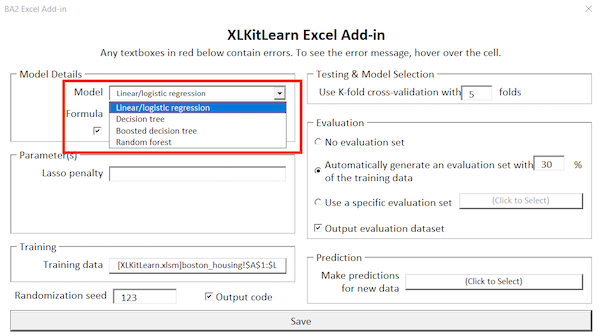
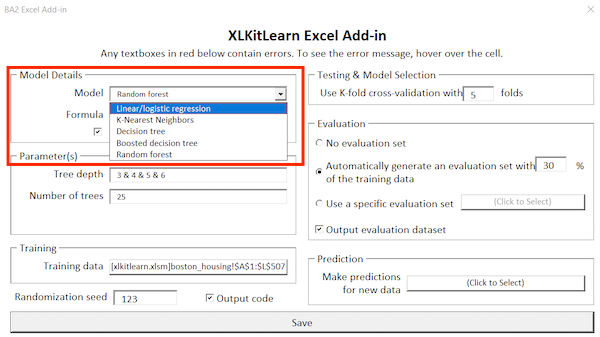
Add and update screenshots, addresses remaining DG notes

diff --git a/docs/predictive_analytics.md b/docs/predictive_analytics.md
@@ -105,7 +105,7 @@ Note that XLKitLearn's formulas leverage the [Patsy](https://patsy.readthedocs.i
 
 ## Specifying a Predictive Model
 
-The final component of any predictive analytic workflow is the model that will be trained and used to make predictions. The model can be selected in the <a id="model-dropdown" class="hover-link" href="javascript:;" title="">model dropdown</a>. DREW update this to include knn in the dropdown 
+The final component of any predictive analytic workflow is the model that will be trained and used to make predictions. The model can be selected in the <a id="model-dropdown" class="hover-link" href="javascript:;" title="">model dropdown</a>.
 
 Some predictive models require parameters to be specified. In those cases, the parameters can be specified in the <a id="parameters" class="hover-link" href="javascript:;" title="">parameter section</a>, which will update to list the parameters required for the specific model selected. In addition, any parameters that are required (and cannot be left blank) will be highlighted in red.
 
@@ -179,7 +179,7 @@ Note that if multiple parameters are tuned (eg: tree depths of 1 and 2 _and_ lea
 
 ## Training and Evaluation Sets
 
-XLKitLearn is able to work with separate training and evaluation datasets. Evaluation datasets can be specified in the 'Evaluation' section of the addin (DREW hover image please!) in a number of ways:
+XLKitLearn is able to work with separate training and evaluation datasets. Evaluation datasets can be specified in the <a id="evaluation-section" class="hover-link" href="javascript:;" title="">"Evaluation" section</a> of the addin in a number of ways:
 
 1. **No evaluation set**: the entire training set will be used to train the model, and no evaluation set will be used.
 2. **Automatically generate an evaluation set with __ % of the training data**: the addin will shuffle the data, and randomly set aside a portion of the dataset to be used as an evaluation set on which to test the performance of the model. The [randomization seed](#the-randomization-seed) will determine the way the dataset is shuffled, so using this option multiple times with the same percentage and randomization seed will yield identical evaluation sets.
@@ -189,7 +189,7 @@ XLKitLearn is able to work with separate training and evaluation datasets. Evalu
 
 ## Making Predictions on New Data
 
-The "make predictions on new data" (DREW screenshot) section allows inference to be carried out on new data. If a dataset is specified in this section, the highest performing model will be used to make predictions for the rows in that dataset.
+The <a id="prediction-section" class="hover-link" href="javascript:;" title="">"make predictions on new data" section</a> allows inference to be carried out on new data. If a dataset is specified in this section, the highest performing model will be used to make predictions for the rows in that dataset.
 
 As in the case with selecting an evaluation dataset manually, this dataset must satisfy one of two conditions - it must either (a) have the same number of columns as the original training dataset, and in the same order (b) must contains all the training columns used in the model, with the same column names.
 
@@ -244,7 +244,7 @@ The specific details output about each model will depend on the model in questio
   - **Decision tree**: for decision trees with fewer than four layers, a graphical representation of the tree will be output. For all trees, a textual representation of the tree will be output.
   - **K-nearest neighbors and ensemble models**: for these models, the permutation variable importance ([scikit-learn reference](https://scikit-learn.org/stable/modules/permutation_importance.html)) will be listed for each variable, in decreasing order of importance. In particular, each column will be randomly permuted a number of times, and the resulting drop in model performance will be calculated in each case. The greater the drop, the more important the variable. These values will also be graphed - each red dot represents the drop in performance for a given permutation, and the black star is the average of the red dots.
 
-Note that for models with thousands of variables, this section might be rather large. If your application does not require these details, you can uncheck the "output model" (DREW screenshot) box in the addin settings to omit it.
+Note that for models with thousands of variables, this section might be rather large. If your application does not require these details, you can uncheck the <a id="output-model-box" class="hover-link" href="javascript:;" title="">"output model" box</a> in the addin settings to omit it.
 
 ### Model evaluation
 
@@ -252,7 +252,7 @@ If an evaluation set is selected using any of the methods described above, the b
 
   - **The out-of-sample score** of the model, as evaluated on this dataset. If a regression model is fit, this will be an R-squared score. If a classification model is fit, this will be an AUC score ([wikipedia reference](https://en.wikipedia.org/wiki/Receiver_operating_characteristic#Area_under_the_curve)).
   - **An ROC curve** will be output, if a classification model is fit.
-  - **A table** listing every row in the evaluation set, together with the row number in the original dataset, the _true_ value of the dependent variable from that original dataset, and the _predicted_ value using our model. If the evaluation set is large, this table will be output to a file in the same directory as the addin, and the name of the file will be listed here. If you application does not require this table, you can uncheck the "output evaluation dataset" (DREW screenshot) box in the addin settings to omit it.
+  - **A table** listing every row in the evaluation set, together with the row number in the original dataset, the _true_ value of the dependent variable from that original dataset, and the _predicted_ value using our model. If the evaluation set is large, this table will be output to a file in the same directory as the addin, and the name of the file will be listed here. If you application does not require this table, you can uncheck the <a id="output-evaluation-dataset" class="hover-link" href="javascript:;" title="">"output evaluation dataset" box</a> in the addin settings to omit it.
 
 ### Model prediction
 
@@ -281,7 +281,7 @@ The input settings that were used to run the analysis. These can be copied and p
 
 ## Advanced Settings
 
-A number of advanced settings (DREW screenshot) are provided by XLKitLearn at the bottom of the addin sheet. These settings difer on PC and Mac computers.
+A number of <a id="advanced-settings" class="hover-link" href="javascript:;" title="">advanced settings</a> are provided by XLKitLearn at the bottom of the addin sheet. These settings differ on PC and Mac computers.
 
 ### PC Advanced Settings
 
@@ -314,5 +314,11 @@ Mac users will see a button that will allow them to "Attempt to terminate python
     $("#small-data").tooltip({ content: '<img src="https://danguetta.github.io/XLKitLearn_docs/Select_Small_Data.gif" />' });
     $("#large-data").tooltip({ content: '<img src="https://danguetta.github.io/XLKitLearn_docs/Select_Large_Data.gif" />' });
     $("#formula-editor-large-gif").tooltip({ content: '<img src="https://danguetta.github.io/XLKitLearn_docs/Formula_Editor.gif" />' });
+    $("#evaluation-section").tooltip({ content: '<img src="https://danguetta.github.io/XLKitLearn_docs/evaluation-section.png" />' });
+    $("#prediction-section").tooltip({ content: '<img src="https://danguetta.github.io/XLKitLearn_docs/prediction-section.png" />' });
+    $("#output-model-box").tooltip({ content: '<img src="https://danguetta.github.io/XLKitLearn_docs/uncheck-output-model.png" />' });
+    $("#advanced-settings").tooltip({ content: '<img src="https://danguetta.github.io/XLKitLearn_docs/advanced-options.png" />' });
+    $("#output-evaluation-dataset").tooltip({ content: '<img src="https://danguetta.github.io/XLKitLearn_docs/uncheck-output-evaluation-dataset.png" />' });
   })
 </script>
+
